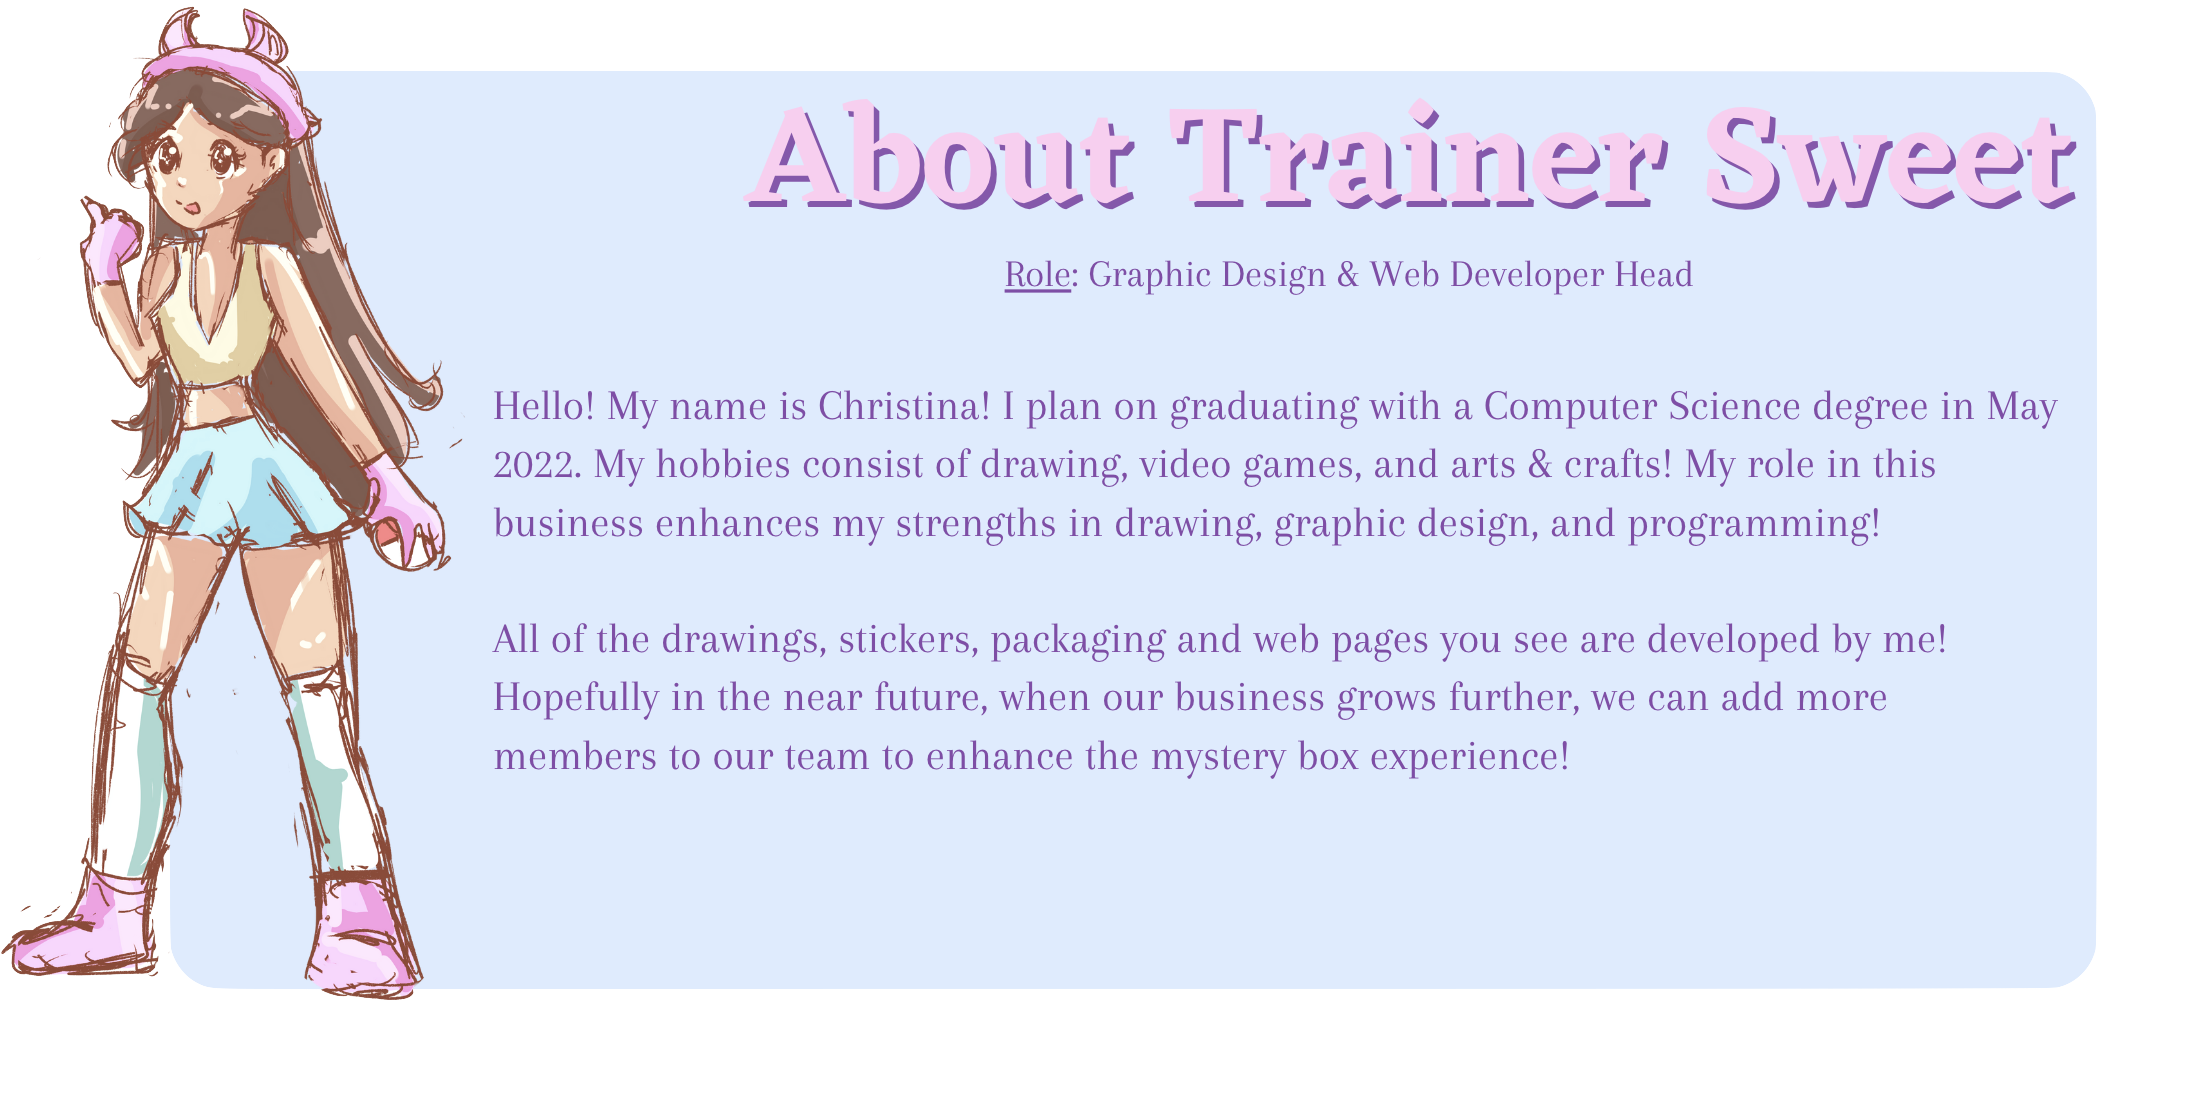
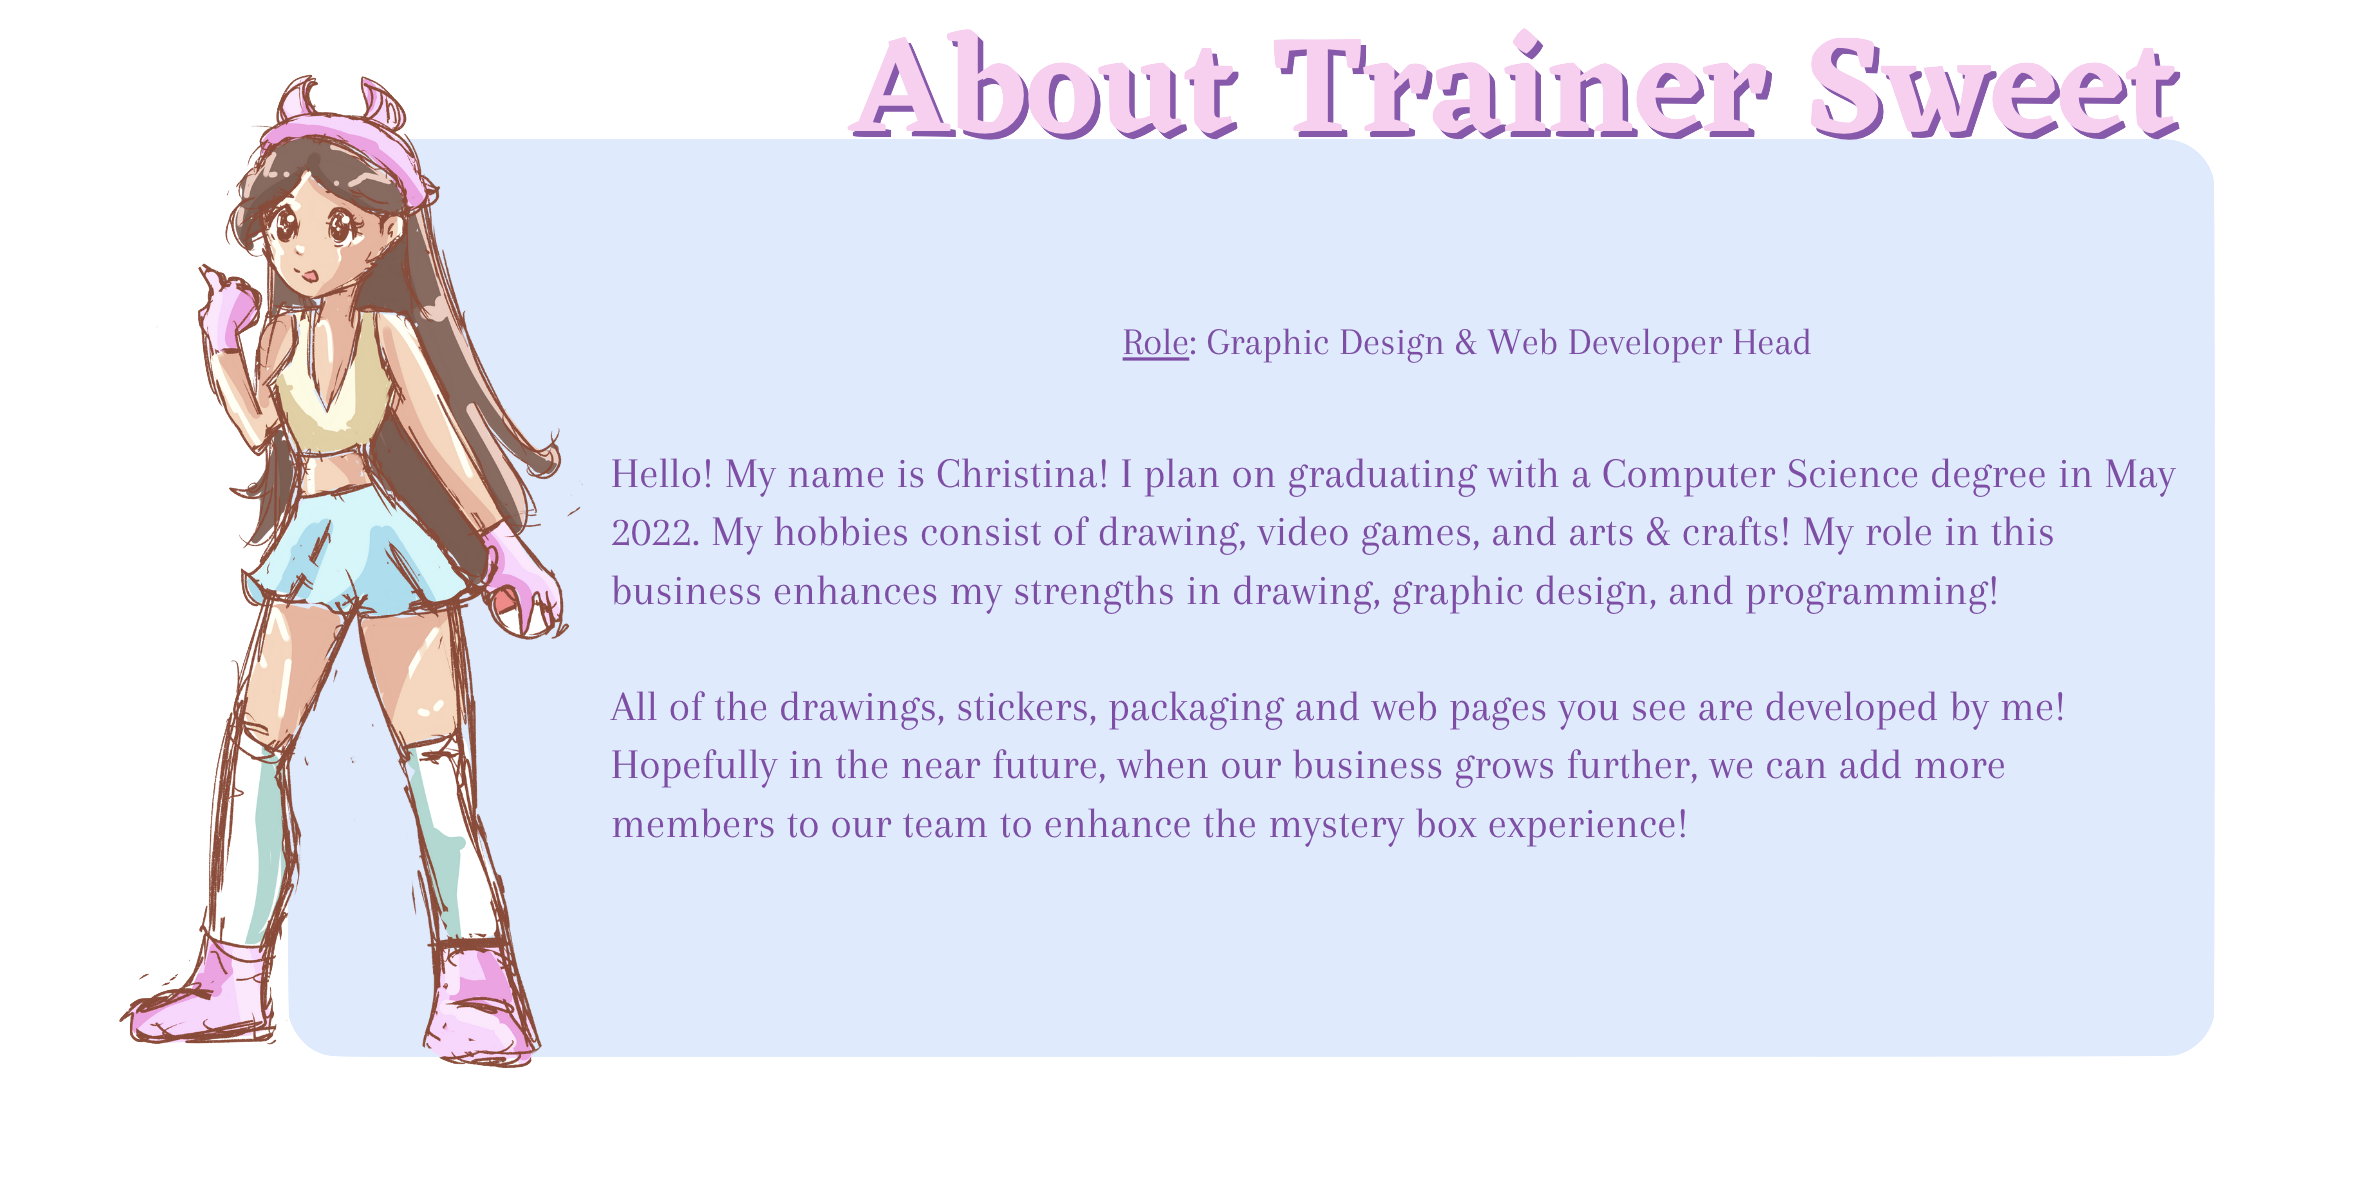
Changed about

Changed region(s): [[0.0, 0.0, 0.967, 0.9206], [0.4367, 0.2455, 0.7798, 0.3069]]

diff --git a/about.html b/about.html
@@ -18,16 +18,24 @@
   <li><a href="buyNow.html">Buy Now</a></li>
 </ul>
 
+<a href = #aboutSweet><img src = "Assets/graphics/sweetNMew.png" alt="sweetNMew" class = "sweetNMew"></a>
+<a href = #aboutSour><img src = "Assets/graphics/sourNSnorlax.png" alt="sourNSnorlax" class = "sourNSnorlax"></a>
+
+
+
 <CENTER>
-<img src = "Assets/graphics/aboutSweetNSour.png" alt="aboutSweetNSour" class = "aboutSweetNSour" >
-<img src = "Assets/graphics/aboutSweet.png" alt="aboutSweet" class = "aboutSweet" >
+<img src = "Assets/graphics/about.png" alt="aboutSweetNSour" class = "aboutSweetNSour" >
+<img src = "Assets/graphics/aboutSweet.png" alt="aboutSweet" id = "aboutSweet">
+<img src = "Assets/graphics/aboutSour.png" alt="aboutSour" id = "aboutSour" >
 </CENTER>
 
 
 
 <style>
 
-
+html{
+	scroll-behavior: smooth;
+}
 body{
 	margin: 0;
 	background-image: url("Assets/background.png");
@@ -104,12 +112,44 @@ li a:hover:not(.active){
 	
 }
 
-.aboutSweet{
+#aboutSweet{
 	position: relative;
 	display: inline-block;
 	margin:  70px;
 	width: 90%;
 	height: auto;
+
+}
+
+#aboutSour{
+	position: relative;
+	display: inline-block;
+	margin:  70px;
+	width: 90%;
+	height: auto;
+
+}
+
+.sweetNMew{
+	position: absolute;
+	display: inline-block;
+	margin:  70px;
+	width: 35%;
+	height: auto;
+	z-index: 1;
+	top: 15%;
+	left: 1%;
+}
+
+.sourNSnorlax{
+	position: absolute;
+	display: inline-block;
+	margin:  70px;
+	width: 35%;
+	height: auto;
+	z-index: 1;
+	top: 15%;
+	left: 55%;
 }
 </style>
 
